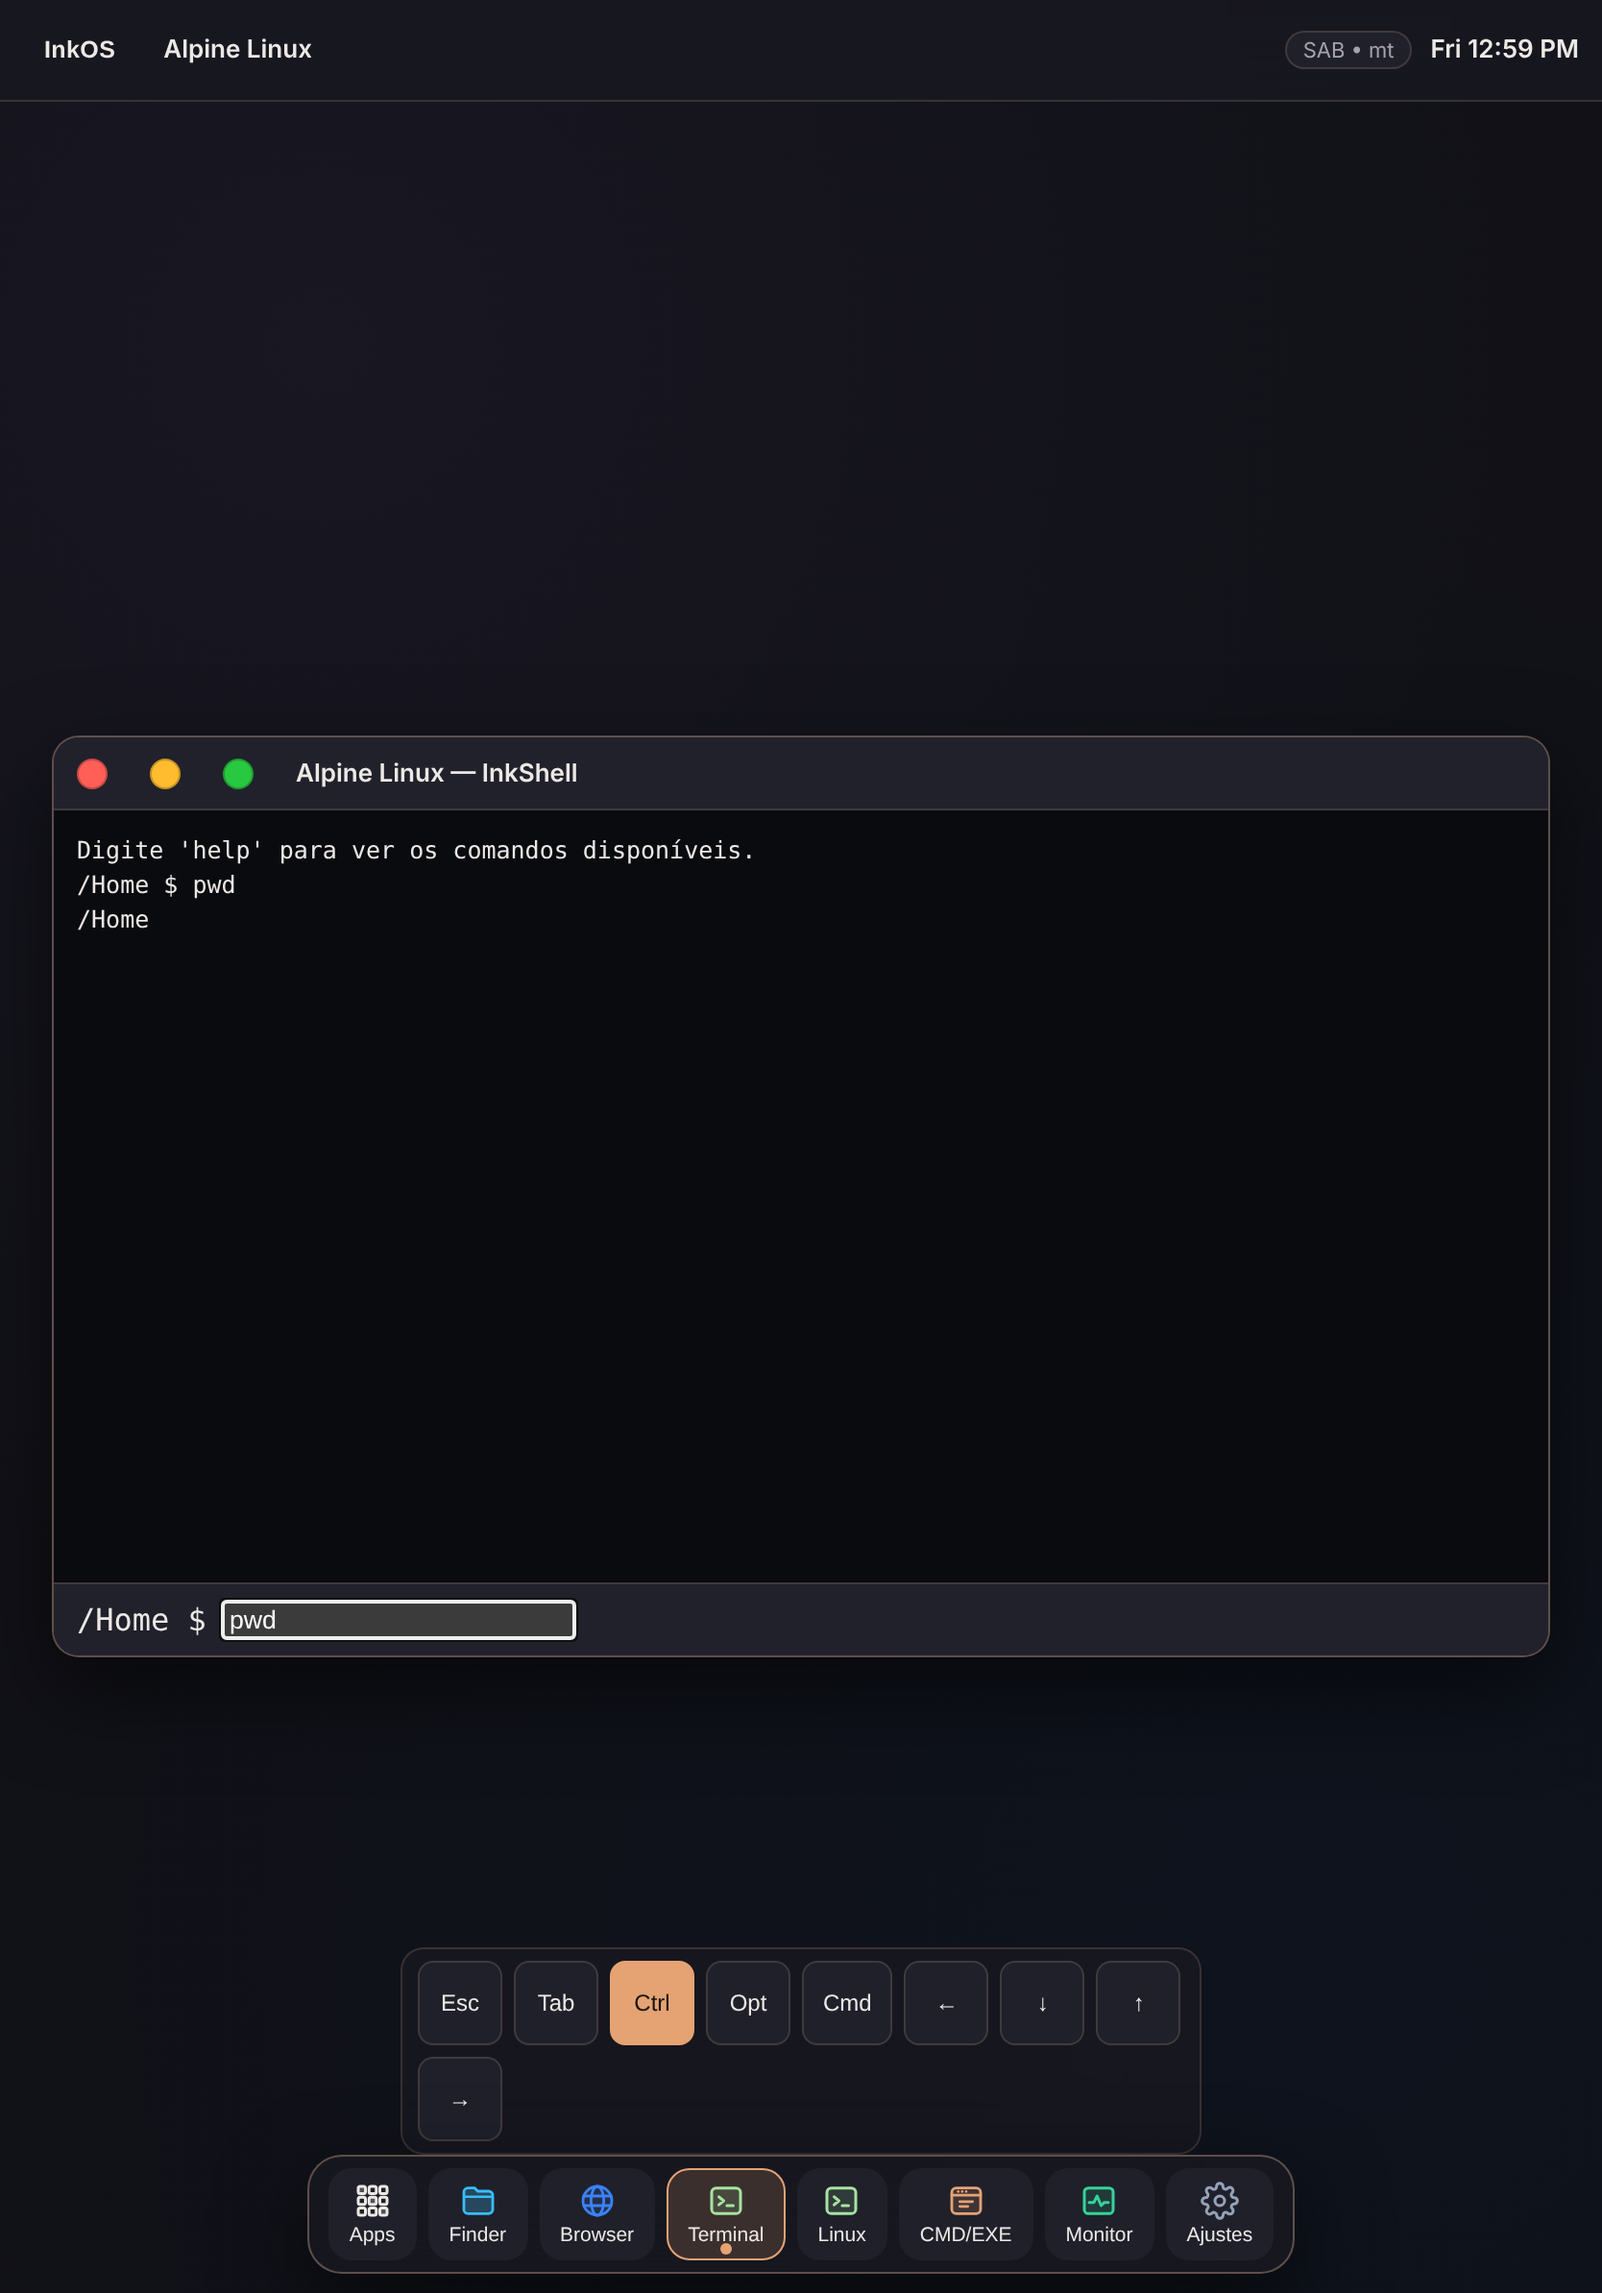
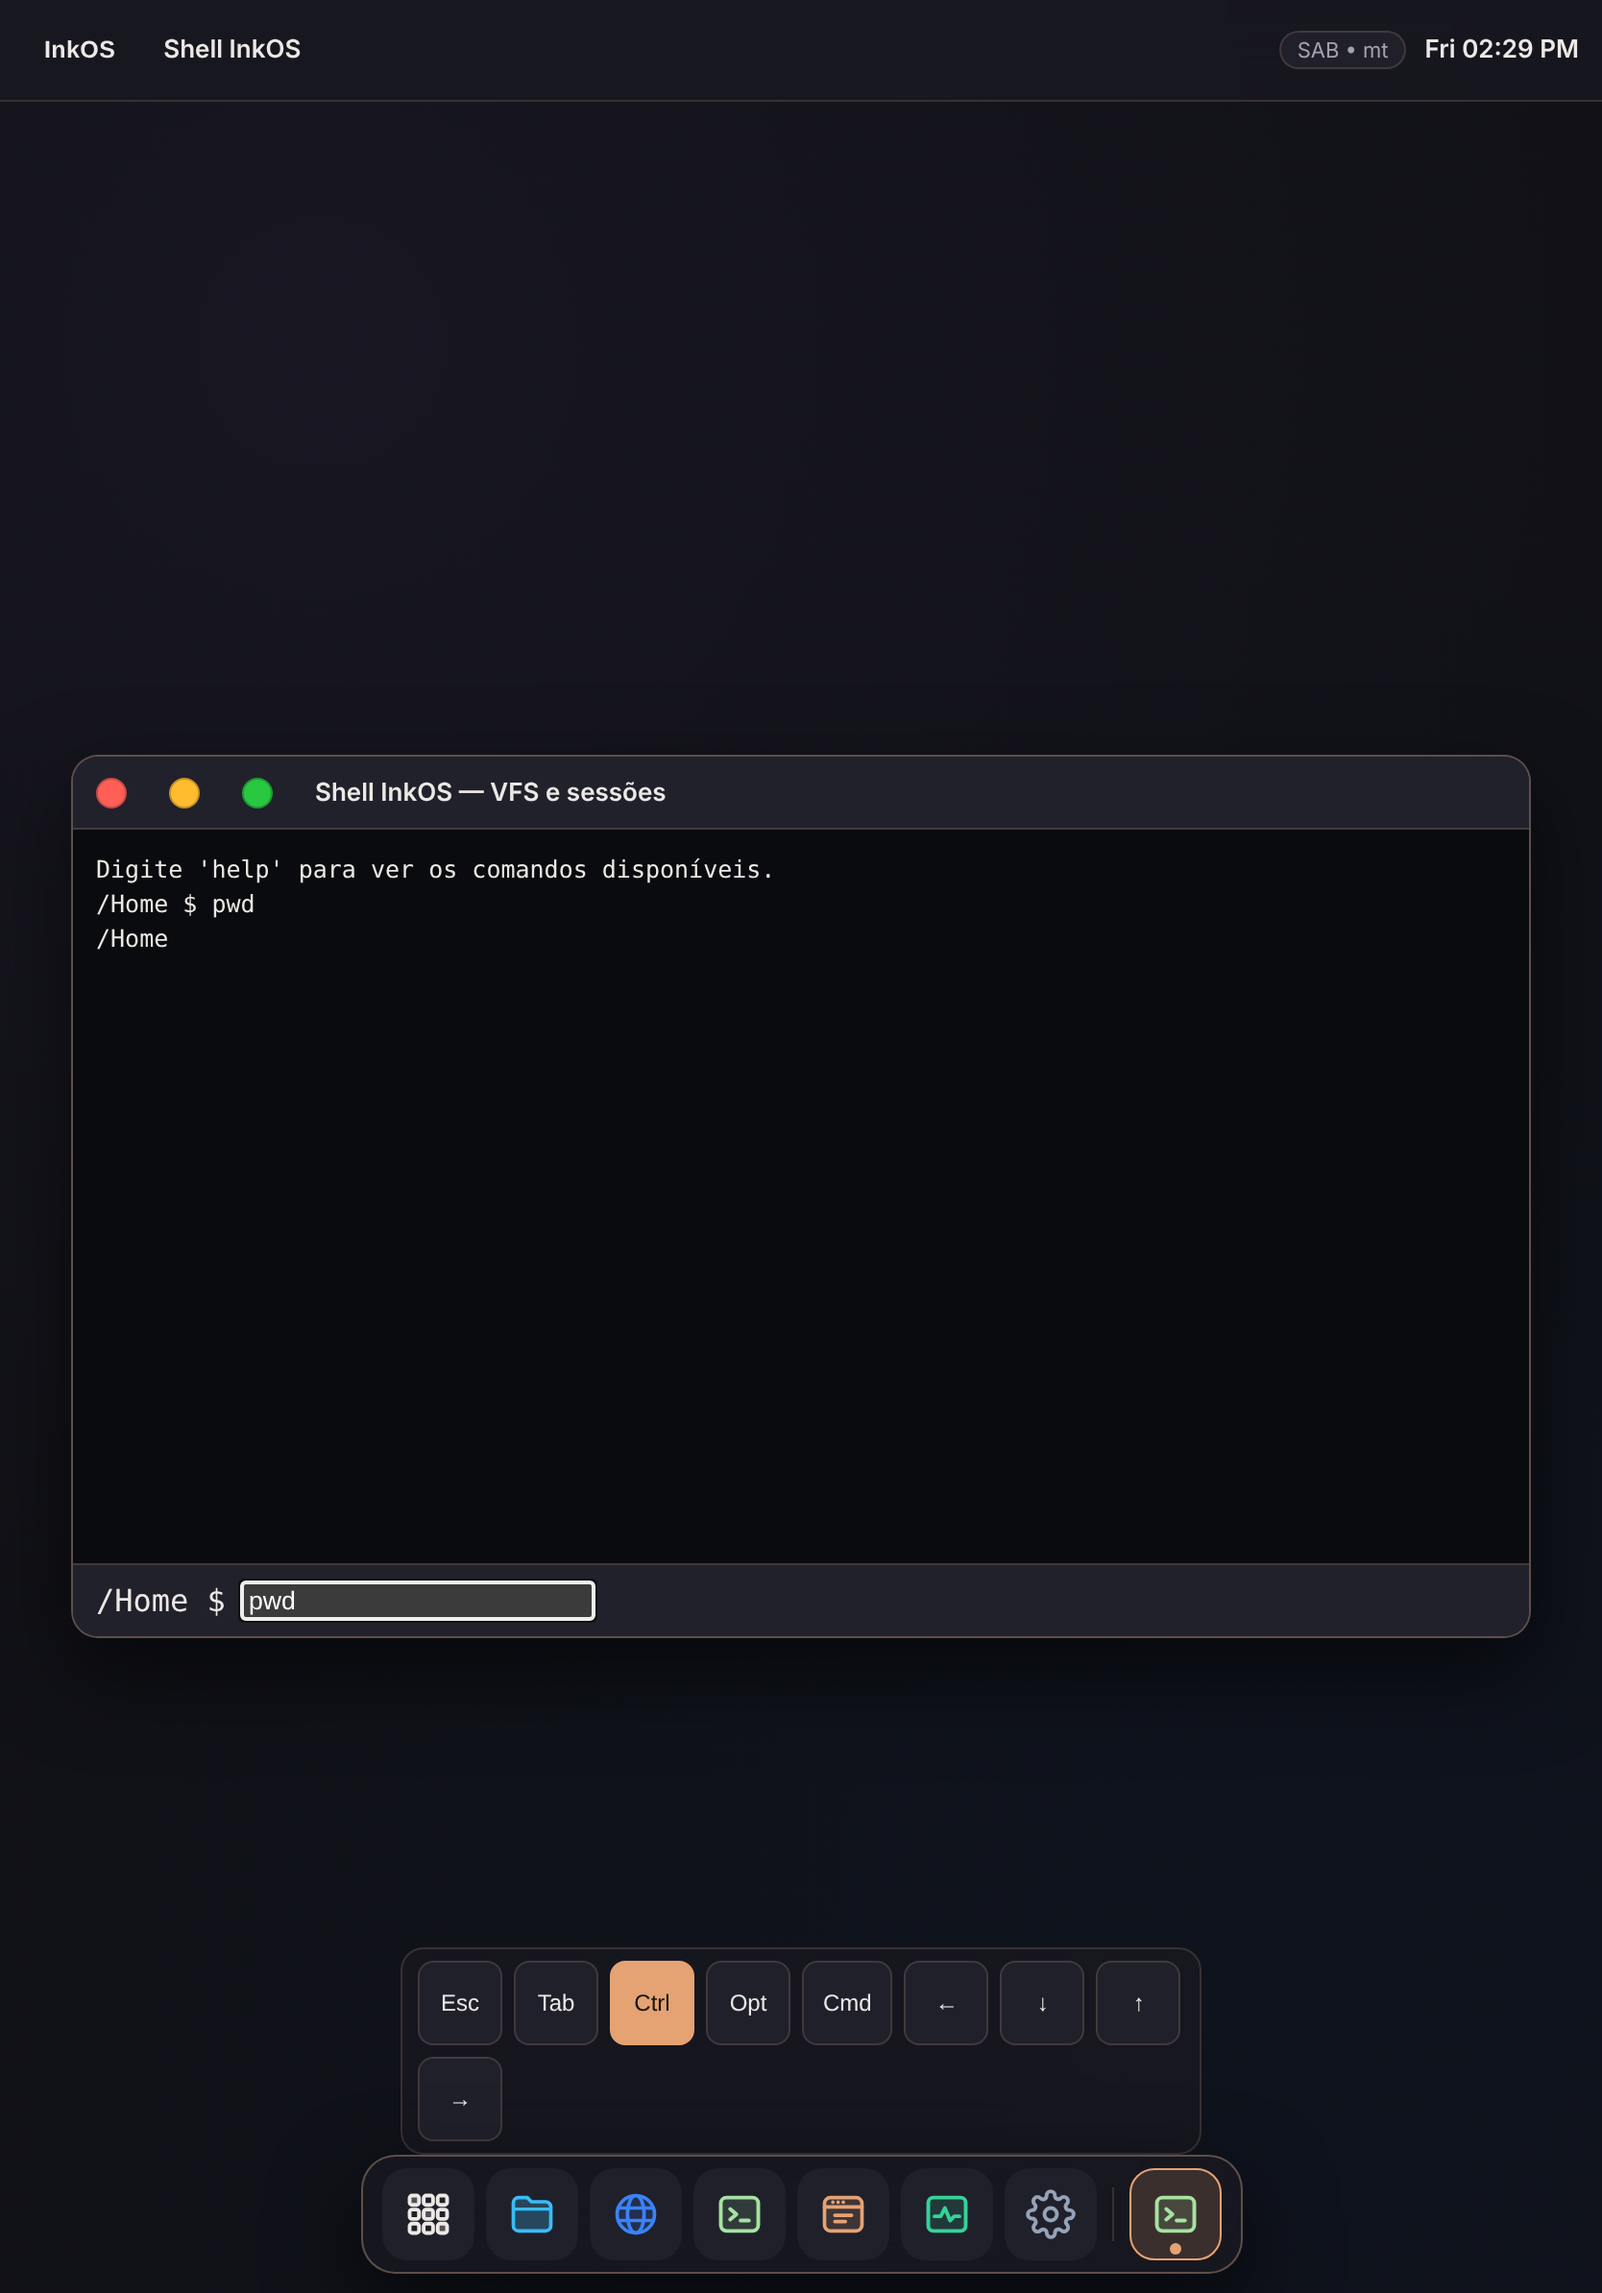
feat: fit engine windows to the program's window size
The InkSoC engine reports the box around a program's windows with a new
inkos-size message; InkOS sizes the window around it (up to 1.5x, inside
the desktop) until the user resizes or maximizes it.

Claude-Session: https://claude.ai/code/session_013qXTaSQN9mncCYe83Fw6GL

diff --git a/inkos/web/js/wm.js b/inkos/web/js/wm.js
@@ -213,6 +213,7 @@ export class WindowManager {
     el.querySelectorAll(".resize-handle").forEach((handle) => {
       handle.addEventListener("pointerdown", (ev) => {
         if (record.maximized) return;
+        record.userSized = true;
         ev.preventDefault();
         ev.stopPropagation();
         this.focus(id);
@@ -259,6 +260,30 @@ export class WindowManager {
 
     this._emit();
     return bodyEl;
+  }
+
+  // Size a window around its content (an iframe app that reports how big its own window is).
+  // Up to 1.5x, never larger than the desktop, kept centred where it was. A window the user
+  // resized or maximized keeps its size.
+  fitContent(id, cw, ch) {
+    const w = this.windows.get(id);
+    if (!w || w.maximized || w.userSized || !(cw > 0) || !(ch > 0)) return;
+    const dw = this.desktopEl.clientWidth;
+    const dh = this.desktopEl.clientHeight;
+    if (!dw || !dh) return;
+    const bar = w.el.querySelector(".window-title")?.offsetHeight || 0;
+    const k = Math.min(1.5, (dw - 16) / cw, (dh - 16 - bar) / ch);
+    const width = Math.max(320, Math.round(cw * k));
+    const height = Math.max(220, Math.round(ch * k + bar));
+    if (Math.abs(width - w.width) + Math.abs(height - w.height) < 4) return;
+    const cx = w.x + w.width / 2;
+    const cy = w.y + w.height / 2;
+    w.width = Math.min(width, dw);
+    w.height = Math.min(height, dh);
+    w.x = Math.min(Math.max(0, Math.round(cx - w.width / 2)), Math.max(0, dw - w.width));
+    w.y = Math.min(Math.max(0, Math.round(cy - w.height / 2)), Math.max(0, dh - w.height));
+    this._applyGeometry(w);
+    this._emit();
   }
 
   setTitle(id, title) {

diff --git a/inkos/web/js/protocol.js b/inkos/web/js/protocol.js
@@ -15,6 +15,8 @@ const SCHEMAS = {
     m.data instanceof ArrayBuffer,
   "inkos-ready": (m) => m.app === undefined || (typeof m.app === "string" && m.app.length <= 64),
   // An app names what it shows (the InkSoC engine: the program in front); InkOS puts it in the title bar.
+  "inkos-size": (m) =>
+    Number.isInteger(m.width) && Number.isInteger(m.height) && m.width >= 1 && m.width <= 4096 && m.height >= 1 && m.height <= 4096,
   "inkos-title": (m) => typeof m.title === "string" && m.title.length > 0 && m.title.length <= 128,
   // The InkSoC engine: the Windows programs installed on its drive C: (Apps shows them).
   "inksoc-programs": (m) =>

diff --git a/inkos/web/js/appload.js b/inkos/web/js/appload.js
@@ -146,6 +146,9 @@ function ensureListener() {
     } else if (msg.type === "inkos-title") {
       const winId = fr.closest(".window")?.dataset.winId;
       if (winId) wmInstance?.setTitle(winId, msg.title);
+    } else if (msg.type === "inkos-size") {
+      const winId = fr.closest(".window")?.dataset.winId;
+      if (winId) wmInstance?.fitContent(winId, msg.width, msg.height);
     }
   });
 }

diff --git a/docs/PROTOCOL.md b/docs/PROTOCOL.md
@@ -67,6 +67,18 @@ Optional. Lets InkOS resend the theme once the app's listeners are attached.
 Optional. InkOS puts `title` (1–128 characters) in the app window's title bar.
 The InkSoC engine page sends the name of the program in front.
 
+### `inkos-size` (app → InkOS)
+
+```js
+{ v: 1, type: "inkos-size", width: 420, height: 310 }
+```
+
+Optional. The size in CSS pixels of what the app wants to show (whole numbers, 1–4096).
+InkOS sizes the window around it (up to 1.5×, never larger than the desktop, centred
+where it was). A window the user has resized or maximized keeps its size. The InkSoC
+engine page sends the box around the program's windows, so the InkOS window follows a
+Windows program's window.
+
 ## Engine windows (InkSoC, InkShell)
 
 `appload.registerFrameApp(id, { path, title, multi })` opens a Hub page as an InkOS
